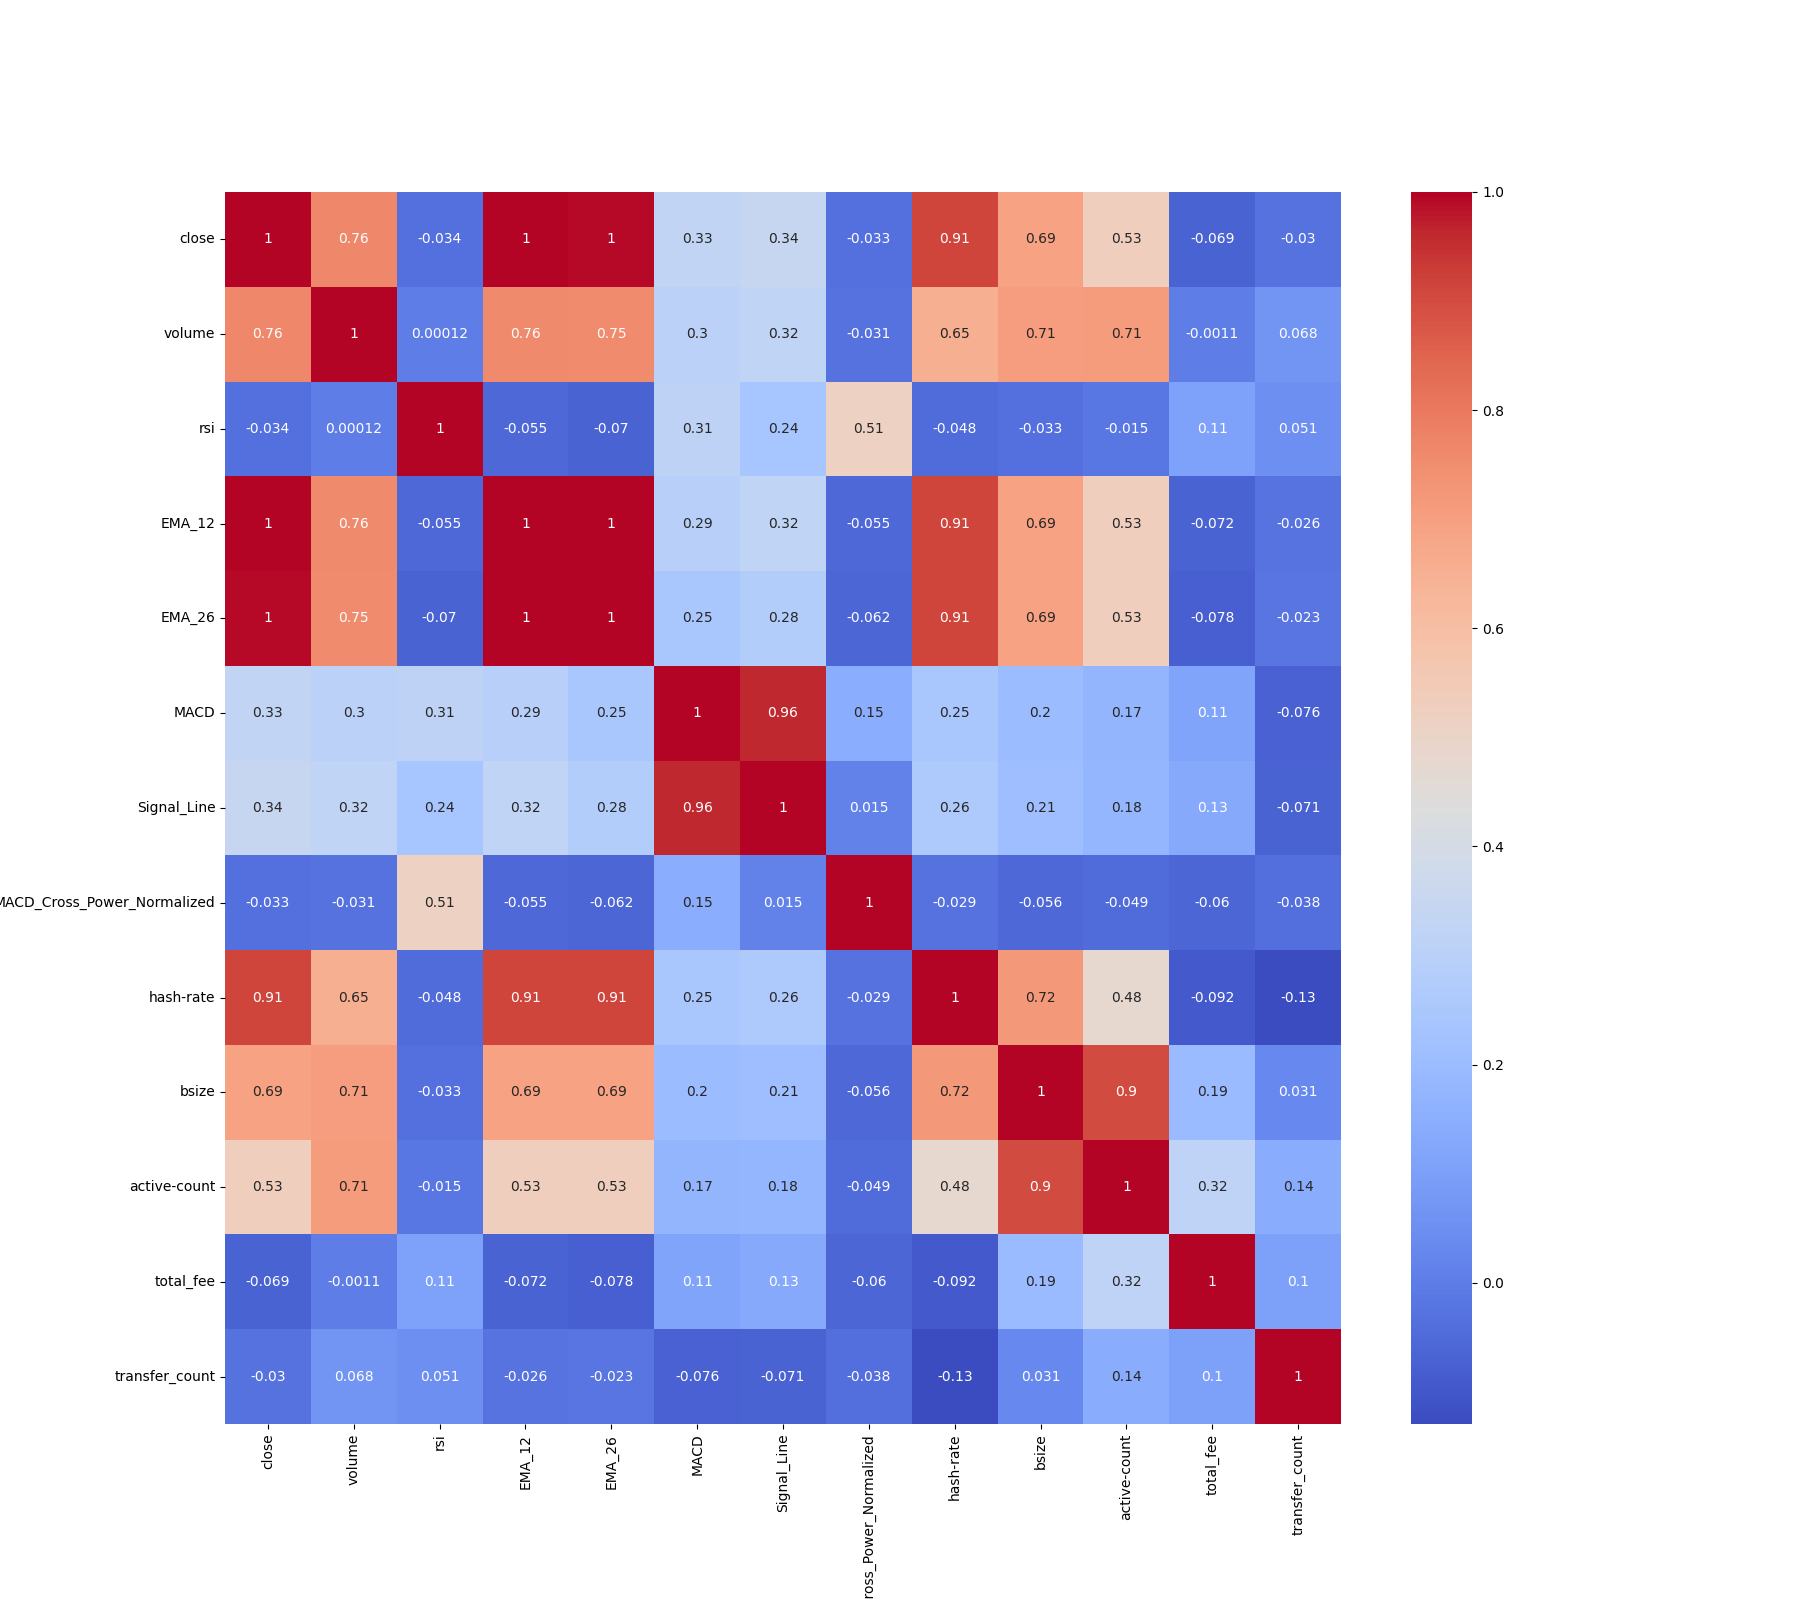
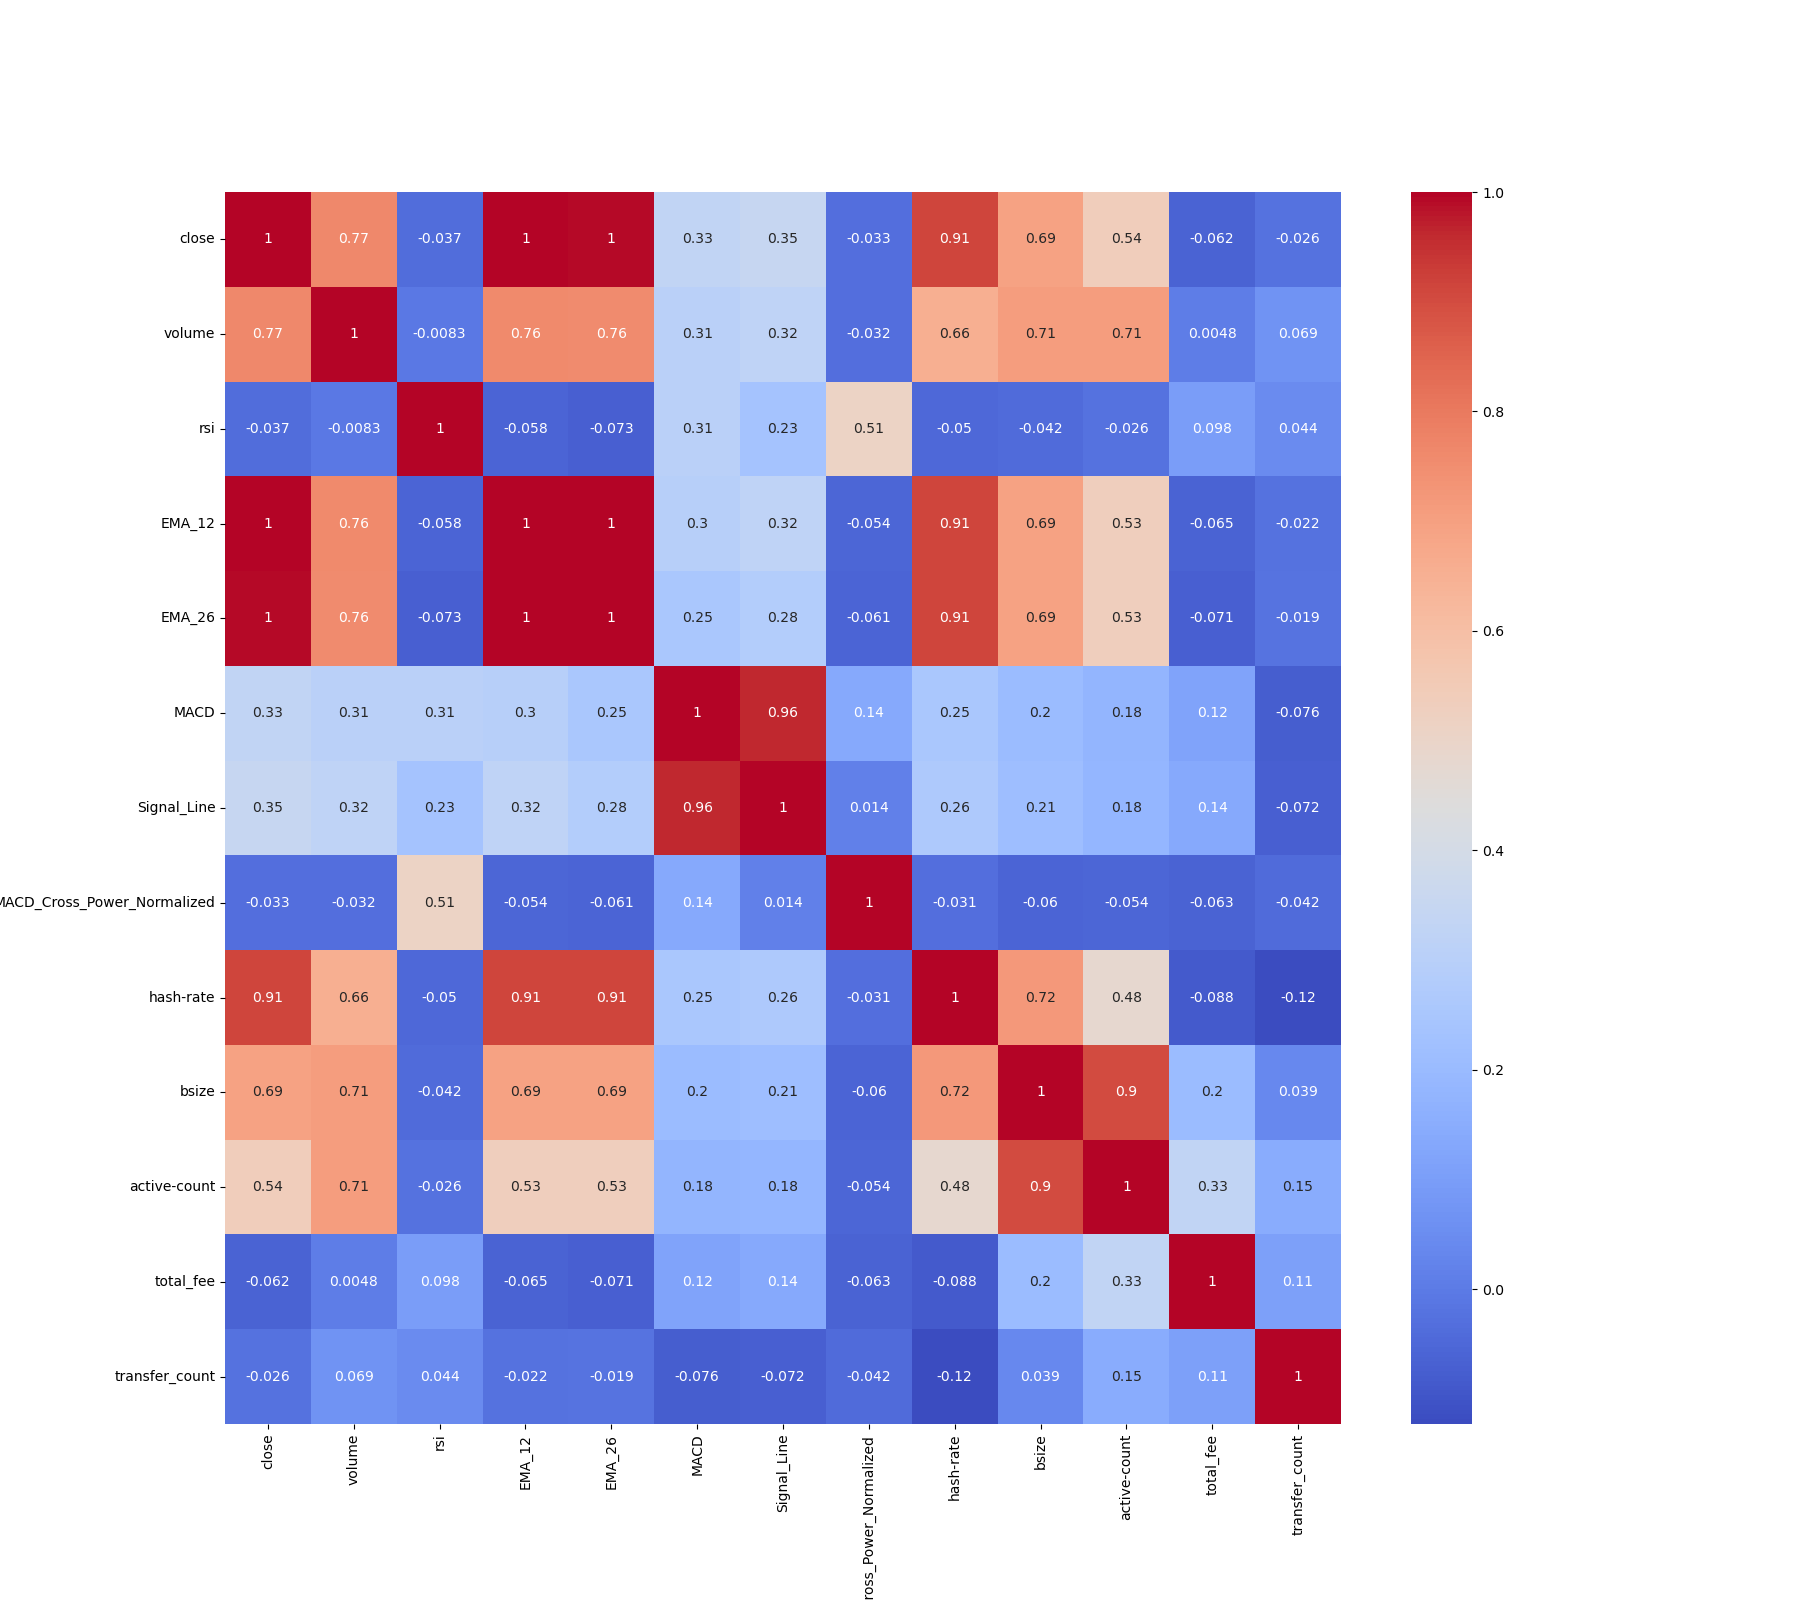
обновлены даты хешрейта

Changed region(s): [[0.1867, 0.7812, 0.2178, 0.8125], [0.1867, 0.25, 0.2178, 0.2812]]

diff --git a/zub.py b/zub.py
@@ -12,7 +12,9 @@ import seaborn as sns
 import matplotlib.pyplot as plt
 
 # Загрузка данных
-df = pd.read_csv('df_analyss.csv')
+df = pd.read_csv('combined_data.csv')
+
+
 
 # print(df.info())
 # print(df.columns)
@@ -26,6 +28,7 @@ df = pd.read_csv('df_analyss.csv')
 # df_no_time = df_no_time.reset_index(drop=True)
 
 df_no_time = df
+
 #рассчет среднего, прибыли и убытка
 df_no_time['change'] = df_no_time['close'] - df_no_time['open']
 df_no_time['gain']=df_no_time['change'].apply(lambda x: x  if x > 0 else 0)
@@ -53,6 +56,7 @@ df_no_time['is_oversold'] = (df_no_time['rsi'] < 30) * 1
 
 df_no_time['EMA_12'] = df_no_time['close'].ewm(span=12, adjust=False).mean()
 df_no_time['EMA_26'] = df_no_time['close'].ewm(span=26, adjust=False).mean()
+
 
 ##про EMA - это средняя цена за промежуток, но с акцентом на последние данные -
 #последние данные влияют на результат больше, чем те, что в начале промежутка
@@ -86,6 +90,7 @@ df_no_time['MACD_Cross_Power'] = df_no_time['MACD_Histogram']
 df_no_time['MACD_Cross_Power_Normalized'] = df_no_time['MACD_Histogram'] / df_no_time['close']
 
 
+
 import json
 
 with open('spizhennoe_avg_size.json', 'r', encoding='utf-8') as file: #здесь данные за последний год - каждый день
@@ -101,16 +106,23 @@ block_df_temp['date'] = pd.to_datetime(block_df_temp['date'], unit='s')
 block_df_temp= block_df_temp.reset_index(drop=True)
 
 
-with open('hash_rate_mean_stolen.json', 'r', encoding='utf-8') as file:
+with open('hash-rate-spizhennoe-v2.json', 'r', encoding='utf-8') as file:
     data = json.load(file)
-    hash_df = pd.DataFrame(data)
+    #hash_df_temp = pd.DataFrame(data['data'])
 
-hash_df['t'] = pd.to_datetime(hash_df['t'], unit='s')
+parsed_data = json.loads(data['data'])
 
-hash_df = hash_df.rename(columns={'t': 'date'})
-hash_df = hash_df.rename(columns={'v': 'hash-rate'})
-hash_df= hash_df.reset_index(drop=True)
+#print(parsed_data)
+hash_df_temp = pd.DataFrame(parsed_data['data'])
 
+hash_df_temp['x'] = pd.to_datetime(hash_df_temp['x'], unit='ms')
+hash_df_temp['x'] = pd.to_datetime(hash_df_temp['x']).dt.strftime('%Y-%m-%d')
+hash_df_temp['x'] = pd.to_datetime(hash_df_temp['x'])
+hash_df_temp['y'] = pd.to_numeric(hash_df_temp['y'])
+hash_df_temp = hash_df_temp.rename(columns={'x': 'date'})
+hash_df_temp = hash_df_temp.rename(columns={'y': 'hash-rate'})
+hash_df= hash_df_temp.reset_index(drop=True)
+print(hash_df.head())
 
 #активные адреса
 #https://studio.glassnode.com/charts/addresses.ActiveCount?a=BTC&chartStyle=column&pScl=lin&zoom=all
@@ -122,6 +134,7 @@ active_count_df['t'] = pd.to_datetime(active_count_df['t'], unit='s')
 active_count_df = active_count_df.rename(columns={'t': 'date'})
 active_count_df = active_count_df.rename(columns={'v': 'active-count'})
 active_count_df= active_count_df.reset_index(drop=True)
+
 
 
 #датасет с суммой всех fees за день (крутой, мало коррелирует)
@@ -152,10 +165,12 @@ transfer_count_df= transfer_count_df.reset_index(drop=True)
 
 df_no_time['date'] = pd.to_datetime(df_no_time['date'])
 df1 = df_no_time.merge(block_df_temp, on='date', how='inner').sort_values(by='date') #inner - оставляем только те, которые есть в обоих датафреймах
-df = df1.merge(hash_df, on='date', how='inner').sort_values(by='date') #то есть у нас есть только за ПОСЛЕДНИЙ ГОД
+df = df1.merge(hash_df, on='date', how='inner').sort_values(by='date')
+#НУЖЕНО ОБНОВИТЬ ЭТИ ТРИ ДАТАФРЕЙМА КОТОРЫЕ НИЖЕ!!!!!
 df = df.merge(active_count_df, on='date', how='inner').sort_values(by='date')
 df = df.merge(total_fee_df, on='date', how='inner').sort_values(by='date')
 df = df.merge(transfer_count_df, on='date', how='inner').sort_values(by='date')
+
 
 metrics = [
     'close',
@@ -172,6 +187,8 @@ metrics = [
     'total_fee',
     'transfer_count'
 ]
+
+
 
 plt.figure(figsize=(18, 16))
 sns.heatmap( df[metrics].corr(),
